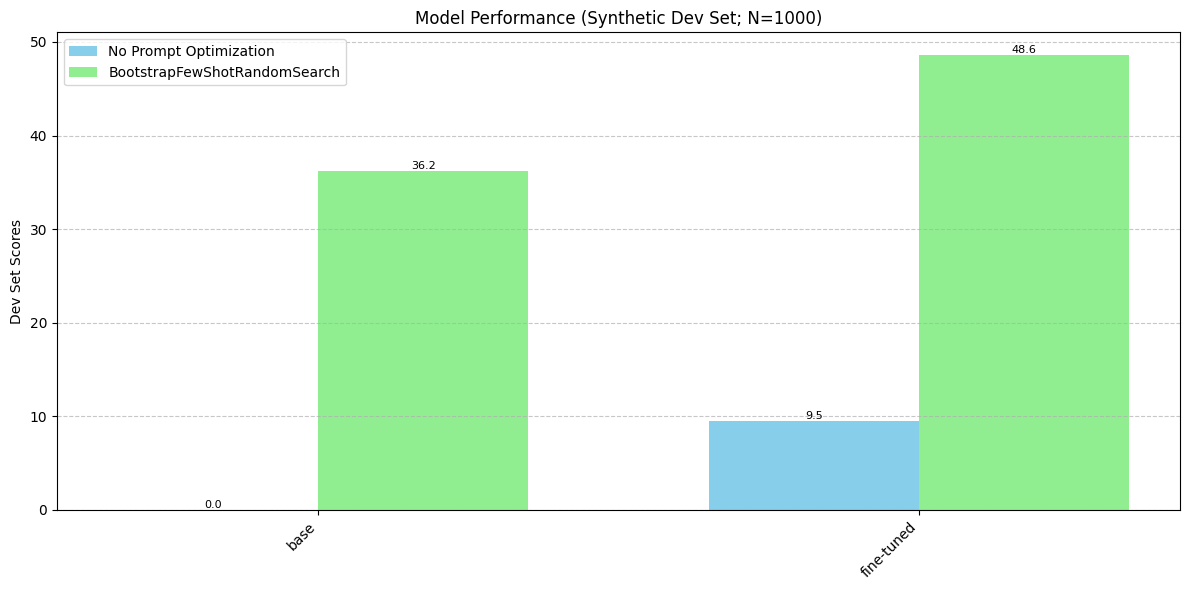
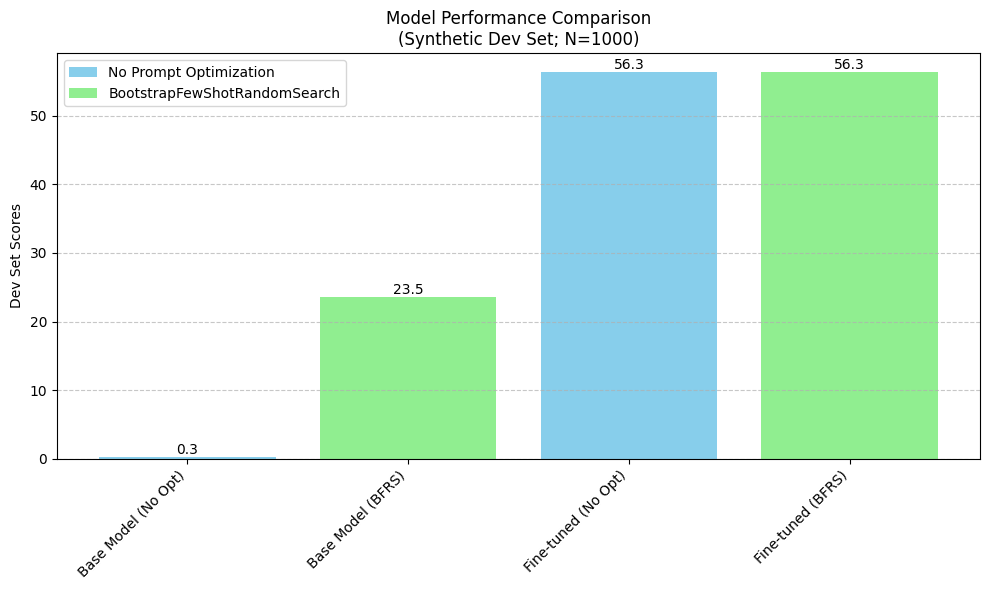
pre-commit

diff --git a/templates/e2e-dspy-workflow/src/evaluation.py b/templates/e2e-dspy-workflow/src/evaluation.py
@@ -18,7 +18,7 @@ def split_into_devset_and_optimizer_sets(collected_data_examples, dev_size, opti
 def evaluate_and_prompt_optimize(devset, optimizer_trainset, optimizer_valset, module_class, models, metric, labels_in_use):
     """
     Evaluates the performance of the models on the synthetic dev set and optimizes the BFRS program.
-    
+
     Takes in a dictionary of models and prompt optimizes a BFRS program for each model.
     """
     ft_results = {}
@@ -33,7 +33,7 @@ def evaluate_and_prompt_optimize(devset, optimizer_trainset, optimizer_valset, m
         )
         print(f"Evaluating {llama.model}")
         ft_results[folder] = {}
-        
+
         with dspy.context(lm=llama):
             evaluate_devset = dspy.Evaluate(
                 devset=devset,
@@ -64,12 +64,12 @@ def evaluate_and_prompt_optimize(devset, optimizer_trainset, optimizer_valset, m
 def run_testset_evaluation(ft_results, all_llamas, labels_in_use, testset, metric, module_class):
     best_non_base_model = max((x for x in ft_results if x != "base"), key=lambda x: ft_results[x]["bfrs"]["devset"])
     print(f"Best non-base model: {best_non_base_model}")
-    
+
     base_and_best = {"base": all_llamas["base"], best_non_base_model: all_llamas[best_non_base_model]}
     best_program_path, best_model, best_score = None, None, 0
-    
+
     evaluate_testset = dspy.Evaluate(devset=testset, metric=metric, num_threads=NUM_THREADS, display_progress=False, max_errors=MAX_ERRORS)
-    
+
     for folder, llama in base_and_best.items():
         print(f"Evaluating {folder}")
         vanilla_program = module_class(labels_in_use)
@@ -78,7 +78,7 @@ def run_testset_evaluation(ft_results, all_llamas, labels_in_use, testset, metri
             # Evaluate vanilla program
             testset_result_vanilla = evaluate_testset(vanilla_program)
             ft_results[folder]["vanilla"]["testset"] = testset_result_vanilla
-            
+
             if testset_result_vanilla > best_score:
                 best_score = testset_result_vanilla
                 best_model = folder
@@ -88,7 +88,7 @@ def run_testset_evaluation(ft_results, all_llamas, labels_in_use, testset, metri
             vanilla_program.load(program_path)
             testset_result_bfrs = evaluate_testset(vanilla_program)
             ft_results[folder]["bfrs"]["testset"] = testset_result_bfrs
-            
+
             if testset_result_bfrs > best_score:
                 best_score = testset_result_bfrs
                 best_program_path = program_path

diff --git a/templates/e2e-dspy-workflow/src/plotting.py b/templates/e2e-dspy-workflow/src/plotting.py
@@ -3,7 +3,7 @@ import numpy as np
 
 def create_performance_graph(scores, labels, title, y_label):
     colors = ['skyblue', 'lightgreen', 'skyblue', 'lightgreen']
-    
+
     fig, ax = plt.subplots(figsize=(10, 6))
     bars = ax.bar(range(len(scores)), scores, color=colors)
 
@@ -39,7 +39,7 @@ def graph_testset_results(ft_results):
     }
     Currently only supports two models.
     """
-    best_ft_model = max((model for model in ft_results if model != "base"), 
+    best_ft_model = max((model for model in ft_results if model != "base"),
                         key=lambda m: ft_results[m]['bfrs'].get('testset', 0))
 
     labels = [
@@ -76,9 +76,9 @@ def graph_devset_results(ft_results):
                          key=lambda x: (x[0] != "Base Model", x[0] != "Fine-tuned", x[0]))
     labels, vanilla_scores, bfrs_scores = zip(*sorted_data)
 
-    all_labels = [f'{labels[0]} (No Opt)', f'{labels[0]} (BFRS)', 
+    all_labels = [f'{labels[0]} (No Opt)', f'{labels[0]} (BFRS)',
                   f'{labels[-1]} (No Opt)', f'{labels[-1]} (BFRS)']
-    all_scores = [vanilla_scores[0], bfrs_scores[0], 
+    all_scores = [vanilla_scores[0], bfrs_scores[0],
                   vanilla_scores[-1], bfrs_scores[-1]]
 
     create_performance_graph(all_scores, all_labels, 'Model Performance Comparison\n(Synthetic Dev Set; N=1000)', 'Dev Set Scores')

diff --git a/templates/e2e-dspy-workflow/src/constants.py b/templates/e2e-dspy-workflow/src/constants.py
@@ -100,5 +100,3 @@ INT_TO_LABEL_DICT = {
 }
 
 LABEL_TO_INT_DICT = {v: k for k, v in INT_TO_LABEL_DICT.items()}
-
-

diff --git a/templates/e2e-dspy-workflow/README.md b/templates/e2e-dspy-workflow/README.md
@@ -1625,8 +1625,6 @@ print(ft_results)
     {'base': {'vanilla': {'devset': 0.3}, 'bfrs': {'devset': 23.5}}, 'openai/meta-llama/Llama-3.2-1B-Instruct:isaac:ngffk': {'vanilla': {'devset': 56.3}, 'bfrs': {'devset': 56.3}}}
 
 
-# TODO: Make plots nicer and consistent
-
 
 ```python
 from src import graph_devset_results, graph_testset_results
@@ -1636,7 +1634,7 @@ graph_devset_results(ft_results)
 
 
     
-![png](README_files/README_64_0.png)
+![png](README_files/README_63_0.png)
     
 
 
@@ -1673,9 +1671,15 @@ graph_testset_results(ft_results_testset)
 ```
 
 
-    
-![png](README_files/README_67_0.png)
-    
+    ---------------------------------------------------------------------------
+
+    NameError                                 Traceback (most recent call last)
+
+    /home/ray/default/templates/templates/e2e-dspy-workflow/README.ipynb Cell 67 line 1
+    ----> <a href='vscode-notebook-cell://vscode-session-6frbgpfbuzs27m75xhz3c8vnde.i.anyscaleuserdata.com/home/ray/default/templates/templates/e2e-dspy-workflow/README.ipynb#Y124sdnNjb2RlLXJlbW90ZQ%3D%3D?line=0'>1</a> graph_testset_results(ft_results_testset)
+
+
+    NameError: name 'graph_testset_results' is not defined
 
 
 
